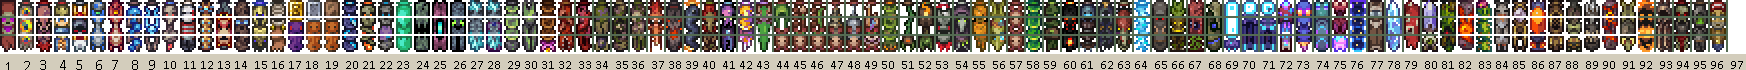
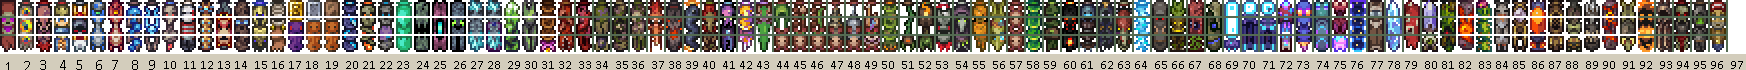
cleanup + noxious slime name & sprite update

Changed region(s): [[0.2784, 0.2571, 0.3093, 0.4857], [0.2784, 0.0, 0.3093, 0.2286], [0.2784, 0.5143, 0.3093, 0.7143]]

diff --git a/Items/Banners/_Banners.cs b/Items/Banners/_Banners.cs
@@ -172,6 +172,7 @@ namespace SpiritMod.Items.Banners
 	public class DiseasedSlimeBanner : BaseBannerItem
 	{
 		protected override int Style => 28;
+		public override void SetStaticDefaults() => DisplayName.SetDefault("Noxious Slime Banner");
 	}
 
 	//public class DiseasedBatBanner : BaseBannerItem //Removed as the NPC no longer exists
@@ -293,7 +294,7 @@ namespace SpiritMod.Items.Banners
 		protected override int Style => 51;
 	}
 
-	//public class CaptiveMaskBanner : BaseBannerItem
+	//public class CaptiveMaskBanner : BaseBannerItem //Removed as the NPC doesn't exist
 	//{
 	//	protected override int Style => 52;
 	//}

diff --git a/Items/Placeable/StarBeaconItem.cs b/Items/Placeable/StarBeaconItem.cs
@@ -13,23 +13,18 @@ namespace SpiritMod.Items.Placeable
 			Tooltip.SetDefault("'Powered by galactic energy'");
 		}
 
-
 		public override void SetDefaults()
 		{
 			Item.width = 28;
 			Item.height = 22;
 			Item.value = Item.sellPrice(0, 0, 10, 0);
-
 			Item.maxStack = 99;
-
 			Item.useStyle = ItemUseStyleID.Swing;
 			Item.useTime = 10;
 			Item.useAnimation = 15;
-
 			Item.useTurn = true;
 			Item.autoReuse = true;
 			Item.consumable = true;
-
 			Item.createTile = ModContent.TileType<StarBeacon>();
 		}
 	}
